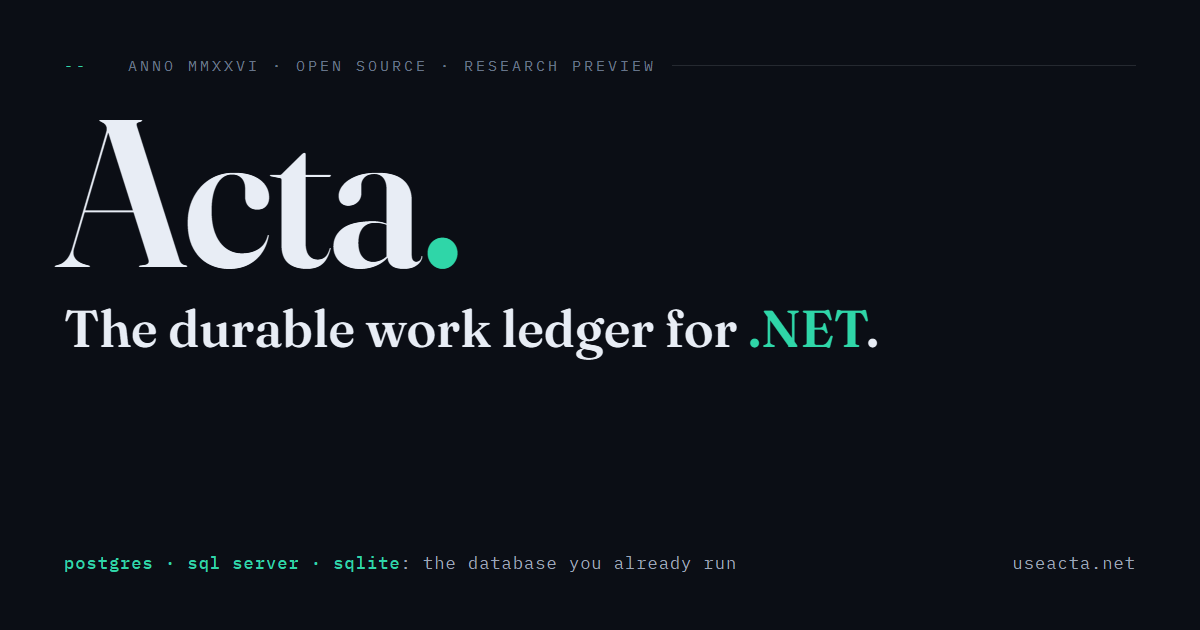
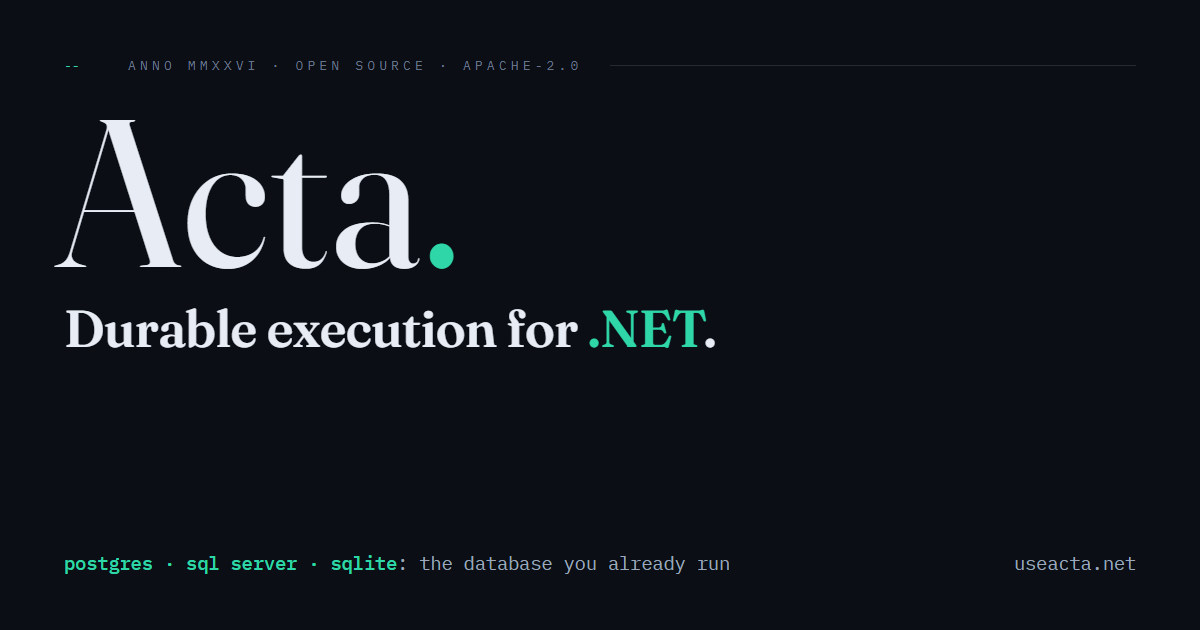
Redraw the social card for durable execution
The card every shared link shows still read "The durable work ledger
for .NET." under a "Research preview" line, words the site dropped for
"Durable execution for .NET". It is redrawn on the same grid, palette
and fonts: the headline reads "Durable execution for .NET." and the
top line "Anno MMXXVI · Open source · Apache-2.0". The card's alt text
on every page and in the benchmark page's template follows, and the
packages drop the durable-work-ledger tag.

diff --git a/site/index.html b/site/index.html
@@ -16,12 +16,12 @@
   <meta property="og:image" content="https://useacta.net/assets/social-card.png" />
   <meta property="og:image:width" content="1200" />
   <meta property="og:image:height" content="630" />
-  <meta property="og:image:alt" content="Acta: the durable work ledger for .NET. Postgres, SQL Server, SQLite." />
+  <meta property="og:image:alt" content="Acta: durable execution for .NET. Postgres, SQL Server, SQLite." />
   <meta name="twitter:card" content="summary_large_image" />
   <meta name="twitter:title" content="Acta · Durable execution for .NET: workflows and jobs that survive restarts" />
   <meta name="twitter:description" content="Durable execution for .NET: steps, variables, child jobs, signals, ordered lanes, and limits across every worker. Every job is a row in your database; kill the worker and the next one continues from what finished." />
   <meta name="twitter:image" content="https://useacta.net/assets/social-card.png" />
-  <meta name="twitter:image:alt" content="Acta: the durable work ledger for .NET. Postgres, SQL Server, SQLite." />
+  <meta name="twitter:image:alt" content="Acta: durable execution for .NET. Postgres, SQL Server, SQLite." />
   <link rel="icon" href="favicon.svg" type="image/svg+xml" />
   <link rel="stylesheet" href="assets/site.css" />
   <script src="assets/theme.js"></script>

diff --git a/site/benchmark.html b/site/benchmark.html
@@ -15,7 +15,7 @@
   <meta property="og:image" content="https://useacta.net/assets/social-card.png" />
   <meta property="og:image:width" content="1200" />
   <meta property="og:image:height" content="630" />
-  <meta property="og:image:alt" content="Acta: the durable work ledger for .NET. Postgres, SQL Server, SQLite." />
+  <meta property="og:image:alt" content="Acta: durable execution for .NET. Postgres, SQL Server, SQLite." />
   <meta name="twitter:card" content="summary_large_image" />
   <link rel="icon" href="/favicon.svg" type="image/svg+xml" />
   <link rel="preload" href="assets/fonts/ibm-plex-sans-latin.woff2" as="font" type="font/woff2" crossorigin />

diff --git a/site/404.html b/site/404.html
@@ -14,7 +14,7 @@
   <meta property="og:image" content="https://useacta.net/assets/social-card.png" />
   <meta property="og:image:width" content="1200" />
   <meta property="og:image:height" content="630" />
-  <meta property="og:image:alt" content="Acta: the durable work ledger for .NET. Postgres, SQL Server, SQLite." />
+  <meta property="og:image:alt" content="Acta: durable execution for .NET. Postgres, SQL Server, SQLite." />
   <meta name="twitter:card" content="summary_large_image" />
   <link rel="icon" href="/favicon.svg" type="image/svg+xml" />
   <link rel="preload" href="/assets/fonts/fraunces-latin.woff2" as="font" type="font/woff2" crossorigin />

diff --git a/site/engine.html b/site/engine.html
@@ -15,7 +15,7 @@
   <meta property="og:image" content="https://useacta.net/assets/social-card.png" />
   <meta property="og:image:width" content="1200" />
   <meta property="og:image:height" content="630" />
-  <meta property="og:image:alt" content="Acta: the durable work ledger for .NET. Postgres, SQL Server, SQLite." />
+  <meta property="og:image:alt" content="Acta: durable execution for .NET. Postgres, SQL Server, SQLite." />
   <meta name="twitter:card" content="summary_large_image" />
   <link rel="icon" href="/favicon.svg" type="image/svg+xml" />
   <link rel="preload" href="assets/fonts/fraunces-latin.woff2" as="font" type="font/woff2" crossorigin />

diff --git a/site/fleet.html b/site/fleet.html
@@ -15,7 +15,7 @@
   <meta property="og:image" content="https://useacta.net/assets/social-card.png" />
   <meta property="og:image:width" content="1200" />
   <meta property="og:image:height" content="630" />
-  <meta property="og:image:alt" content="Acta: the durable work ledger for .NET. Postgres, SQL Server, SQLite." />
+  <meta property="og:image:alt" content="Acta: durable execution for .NET. Postgres, SQL Server, SQLite." />
   <meta name="twitter:card" content="summary_large_image" />
   <link rel="icon" href="/favicon.svg" type="image/svg+xml" />
   <link rel="preload" href="assets/fonts/fraunces-latin.woff2" as="font" type="font/woff2" crossorigin />

diff --git a/site/gates.html b/site/gates.html
@@ -15,7 +15,7 @@
   <meta property="og:image" content="https://useacta.net/assets/social-card.png" />
   <meta property="og:image:width" content="1200" />
   <meta property="og:image:height" content="630" />
-  <meta property="og:image:alt" content="Acta: the durable work ledger for .NET. Postgres, SQL Server, SQLite." />
+  <meta property="og:image:alt" content="Acta: durable execution for .NET. Postgres, SQL Server, SQLite." />
   <meta name="twitter:card" content="summary_large_image" />
   <link rel="icon" href="/favicon.svg" type="image/svg+xml" />
   <link rel="preload" href="assets/fonts/fraunces-latin.woff2" as="font" type="font/woff2" crossorigin />

diff --git a/site/how-it-works.html b/site/how-it-works.html
@@ -15,7 +15,7 @@
   <meta property="og:image" content="https://useacta.net/assets/social-card.png" />
   <meta property="og:image:width" content="1200" />
   <meta property="og:image:height" content="630" />
-  <meta property="og:image:alt" content="Acta: the durable work ledger for .NET. Postgres, SQL Server, SQLite." />
+  <meta property="og:image:alt" content="Acta: durable execution for .NET. Postgres, SQL Server, SQLite." />
   <meta name="twitter:card" content="summary_large_image" />
   <link rel="icon" href="/favicon.svg" type="image/svg+xml" />
   <link rel="preload" href="assets/fonts/fraunces-latin.woff2" as="font" type="font/woff2" crossorigin />

diff --git a/site/learn.html b/site/learn.html
@@ -15,7 +15,7 @@
   <meta property="og:image" content="https://useacta.net/assets/social-card.png" />
   <meta property="og:image:width" content="1200" />
   <meta property="og:image:height" content="630" />
-  <meta property="og:image:alt" content="Acta: the durable work ledger for .NET. Postgres, SQL Server, SQLite." />
+  <meta property="og:image:alt" content="Acta: durable execution for .NET. Postgres, SQL Server, SQLite." />
   <meta name="twitter:card" content="summary_large_image" />
   <link rel="icon" href="/favicon.svg" type="image/svg+xml" />
   <link rel="alternate" type="text/plain" href="/llms.txt" title="Acta for coding agents" />

diff --git a/site/start.html b/site/start.html
@@ -15,7 +15,7 @@
   <meta property="og:image" content="https://useacta.net/assets/social-card.png" />
   <meta property="og:image:width" content="1200" />
   <meta property="og:image:height" content="630" />
-  <meta property="og:image:alt" content="Acta: the durable work ledger for .NET. Postgres, SQL Server, SQLite." />
+  <meta property="og:image:alt" content="Acta: durable execution for .NET. Postgres, SQL Server, SQLite." />
   <meta name="twitter:card" content="summary_large_image" />
   <link rel="icon" href="/favicon.svg" type="image/svg+xml" />
   <link rel="alternate" type="text/plain" href="/llms.txt" title="Acta for coding agents" />

diff --git a/site/capabilities.html b/site/capabilities.html
@@ -15,7 +15,7 @@
   <meta property="og:image" content="https://useacta.net/assets/social-card.png" />
   <meta property="og:image:width" content="1200" />
   <meta property="og:image:height" content="630" />
-  <meta property="og:image:alt" content="Acta: the durable work ledger for .NET. Postgres, SQL Server, SQLite." />
+  <meta property="og:image:alt" content="Acta: durable execution for .NET. Postgres, SQL Server, SQLite." />
   <meta name="twitter:card" content="summary_large_image" />
   <link rel="icon" href="/favicon.svg" type="image/svg+xml" />
   <link rel="stylesheet" href="assets/site.css" />

diff --git a/site/choosing.html b/site/choosing.html
@@ -15,7 +15,7 @@
   <meta property="og:image" content="https://useacta.net/assets/social-card.png" />
   <meta property="og:image:width" content="1200" />
   <meta property="og:image:height" content="630" />
-  <meta property="og:image:alt" content="Acta: the durable work ledger for .NET. Postgres, SQL Server, SQLite." />
+  <meta property="og:image:alt" content="Acta: durable execution for .NET. Postgres, SQL Server, SQLite." />
   <meta name="twitter:card" content="summary_large_image" />
   <link rel="icon" href="/favicon.svg" type="image/svg+xml" />
   <link rel="stylesheet" href="assets/site.css" />

diff --git a/tools/Acta.Verify/Evidence/Report.cs b/tools/Acta.Verify/Evidence/Report.cs
@@ -875,7 +875,7 @@ public static partial class Report
           <meta property="og:image" content="https://useacta.net/assets/social-card.png" />
           <meta property="og:image:width" content="1200" />
           <meta property="og:image:height" content="630" />
-          <meta property="og:image:alt" content="Acta: the durable work ledger for .NET. Postgres, SQL Server, SQLite." />
+          <meta property="og:image:alt" content="Acta: durable execution for .NET. Postgres, SQL Server, SQLite." />
           <meta name="twitter:card" content="summary_large_image" />
           <link rel="icon" href="/favicon.svg" type="image/svg+xml" />
           <link rel="preload" href="assets/fonts/ibm-plex-sans-latin.woff2" as="font" type="font/woff2" crossorigin />
